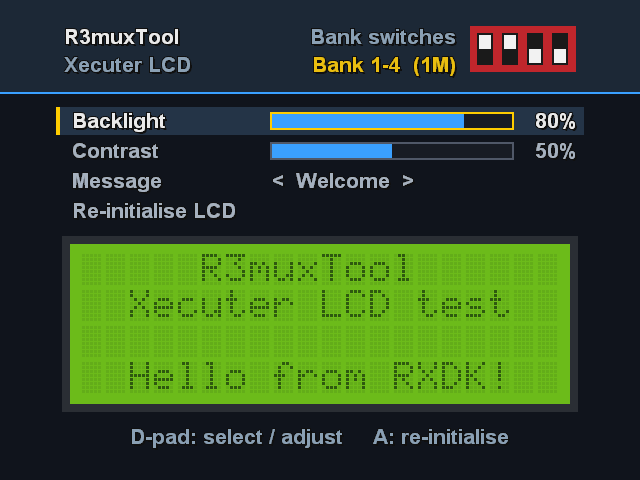
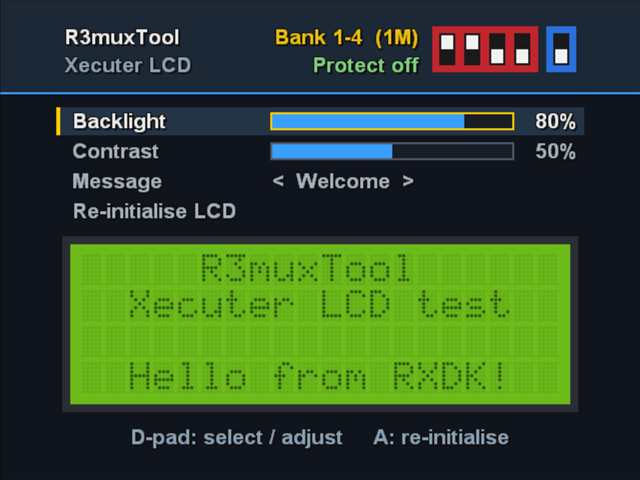
Show the write-protect switch beside the bank switches
Detected the way PrometheOS does it: with protect ON the X3 ignores flash
commands, so the read-only chip-ID query does not answer. Shown as '?' while
the TSOP or backup flash is mapped. README screenshot refreshed.

diff --git a/R3muxTool.cpp b/R3muxTool.cpp
@@ -72,6 +72,7 @@ private:
     void FillRect( float x, float y, float w, float h, D3DCOLOR color );
     void DrawBar( float x, float y, int value, bool selected, bool enabled );
     void DrawBankSwitches();
+    void DrawSwitch( float x, float y, bool known, bool on );
 
     CXBFont m_Font;
 
@@ -85,6 +86,9 @@ private:
     bool  m_SwitchesValid;     // false while software banking is active
     BYTE  m_Switches;
     float m_SwitchPollTime;
+    bool  m_ProtectValid;      // false when TSOP / backup flash is mapped
+    bool  m_ProtectOn;
+    float m_ProtectPollTime;
 
     WCHAR m_Status[96];
     float m_StatusTime;
@@ -107,7 +111,10 @@ CR3muxTool::CR3muxTool()
       m_X3Present( false ),
       m_SwitchesValid( false ),
       m_Switches( 0 ),
-      m_SwitchPollTime( -1.0f )
+      m_SwitchPollTime( -1.0f ),
+      m_ProtectValid( false ),
+      m_ProtectOn( false ),
+      m_ProtectPollTime( -1.0f )
 {
     memset( m_LcdShadow, 0, sizeof( m_LcdShadow ) );
     m_Status[0] = 0;
@@ -189,6 +196,13 @@ HRESULT CR3muxTool::FrameMove()
         m_SwitchesValid = m_X3Present && Xecuter::ReadBankSwitches( &m_Switches );
     }
 
+    // The protect check sends the flash a command sequence, so do it less often.
+    if( m_fAppTime - m_ProtectPollTime > 1.0f || m_ProtectPollTime < 0.0f )
+    {
+        m_ProtectPollTime = m_fAppTime;
+        m_ProtectValid = m_X3Present && Xecuter::ReadWriteProtect( &m_ProtectOn );
+    }
+
     XBGAMEPAD_EVENT ev = m_DefaultGamepad.Event;
 
     switch( ev )
@@ -265,28 +279,36 @@ void CR3muxTool::DrawBar( float x, float y, int value, bool selected, bool enabl
         FillRect( x, y, w * value / 100.0f, h, fill );
 }
 
-// A 4-way DIP switch like the X3's bank selector, with the bank it selects.
-// Switch 1 is bit 0 of the value and reads 0 when ON (knob up).
+// One DIP slot; knob up = ON.
+void CR3muxTool::DrawSwitch( float x, float y, bool known, bool on )
+{
+    const float slotW = 16, slotH = 32;
+    FillRect( x, y, slotW, slotH, 0xff1a1a1a );
+    if( !known )
+        return;
+    float knobH = slotH * 0.5f - 2;
+    FillRect( x + 2, on ? y + 2 : y + slotH - 2 - knobH, slotW - 4, knobH, 0xfff2f2f2 );
+}
+
+// A 4-way DIP switch like the X3's bank selector, with the bank it selects,
+// and the write-protect switch beside it in blue.
+// Bank switch 1 is bit 0 of the value and reads 0 when ON (knob up).
 void CR3muxTool::DrawBankSwitches()
 {
-    const float bodyX = 470, bodyY = 26, bodyW = 106, bodyH = 46;
+    const float bodyX = 432, bodyY = 26, bodyW = 106, bodyH = 46;
     const float slotW = 16, slotH = 32, gap = 9;
     const float slotX0 = bodyX + ( bodyW - ( 4 * slotW + 3 * gap ) ) * 0.5f;
     const float slotY = bodyY + ( bodyH - slotH ) * 0.5f;
 
     bool live = m_SwitchesValid;
     FillRect( bodyX, bodyY, bodyW, bodyH, live ? 0xffc0262c : 0xff4a3436 );   // red DIP body
-
     for( int i = 0; i < 4; ++i )
-    {
-        float x = slotX0 + i * ( slotW + gap );
-        FillRect( x, slotY, slotW, slotH, 0xff1a1a1a );
-        if( !live )
-            continue;
-        bool on = ( m_Switches & ( 1 << i ) ) == 0;
-        float knobH = slotH * 0.5f - 2;
-        FillRect( x + 2, on ? slotY + 2 : slotY + slotH - 2 - knobH, slotW - 4, knobH, 0xfff2f2f2 );
-    }
+        DrawSwitch( slotX0 + i * ( slotW + gap ), slotY, live, ( m_Switches & ( 1 << i ) ) == 0 );
+
+    // Protect switch
+    const float protX = bodyX + bodyW + 8, protW = 576 - protX;
+    FillRect( protX, bodyY, protW, bodyH, m_ProtectValid ? 0xff2a6fdb : 0xff34404a );   // blue body
+    DrawSwitch( protX + ( protW - slotW ) * 0.5f, slotY, m_ProtectValid, m_ProtectOn );
 
     WCHAR buf[64];
     if( !m_X3Present )
@@ -303,9 +325,12 @@ void CR3muxTool::DrawBankSwitches()
         buf[n] = 0;
     }
 
+    const WCHAR* protText = !m_ProtectValid ? L"Protect ?" : ( m_ProtectOn ? L"Protect ON" : L"Protect off" );
+    D3DCOLOR protColor = !m_ProtectValid ? 0xff8fa8c0 : ( m_ProtectOn ? 0xffff7a5a : 0xff7fe07f );
+
     m_Font.Begin();
-    m_Font.DrawText( bodyX - 14, 24, 0xff8fa8c0, L"Bank switches", XBFONT_RIGHT );
-    m_Font.DrawText( bodyX - 14, 52, live ? 0xffffcc00 : 0xff8fa8c0, buf, XBFONT_RIGHT );
+    m_Font.DrawText( bodyX - 14, 24, live ? 0xffffcc00 : 0xff8fa8c0, buf, XBFONT_RIGHT );
+    m_Font.DrawText( bodyX - 14, 52, protColor, protText, XBFONT_RIGHT );
     m_Font.End();
 }
 

diff --git a/XecuterLcd.cpp b/XecuterLcd.cpp
@@ -152,6 +152,31 @@ bool Xecuter::ReadBankSwitches( BYTE* value )
     return true;
 }
 
+bool Xecuter::ReadWriteProtect( bool* protectOn )
+{
+    // Under software banking CONTROL reads back the flash routing; if the TSOP
+    // (0x20) or backup flash (0x80) is selected, the ID read would not reach
+    // the X3's main flash.
+    if( InByte( REG_STATUS ) & STATUS_SOFTCONTROL )
+    {
+        if( InByte( REG_CONTROL ) & ( 0x20 | 0x80 ) )
+            return false;
+    }
+
+    // AMD-style autoselect: unlock, 0x90, read manufacturer / device ID, reset.
+    // Read-only: nothing is erased or written. Ported from PrometheOS
+    // modchipXecuter::checkWriteProtect().
+    volatile BYTE* flash = (volatile BYTE*)0xFF000000;
+    flash[0x5555] = 0xAA;
+    flash[0x2AAA] = 0x55;
+    flash[0x5555] = 0x90;
+    BYTE devId = flash[1];
+    flash[0] = 0xF0;
+
+    *protectOn = ( devId != 0xAD && devId != 0x92 );
+    return true;
+}
+
 const char* Xecuter::BankName( BYTE value )
 {
     static const char* const names[16] =

diff --git a/XecuterLcd.h b/XecuterLcd.h
@@ -58,6 +58,12 @@ namespace Xecuter
     // then reads back the soft bank state rather than the switches.
     bool ReadBankSwitches( BYTE* value );
 
+    // Write-protect switch. There is no register for it: with protect ON the
+    // X3 ignores flash commands, so the chip-ID read (as PrometheOS does it)
+    // does not answer. Returns false when it can't tell, i.e. the TSOP or
+    // backup flash is mapped instead of the X3's main flash.
+    bool ReadWriteProtect( bool* protectOn );
+
     // Name of the bank a switch value selects, e.g. "Bank 1-4", and its size.
     const char* BankName( BYTE value );
     const char* BankSize( BYTE value );

diff --git a/README.md b/README.md
@@ -39,6 +39,10 @@ is ported from [PrometheOS](https://github.com/Team-Resurgent/PrometheOS-Firmwar
   size they select (e.g. *Bank 1-4 (1M)*), updated live as you flip them. It shows
   *Software banking* when a BIOS has taken over banking, and *No X3 detected* when no
   chip answers.
+- **Write protect**: the protect switch, drawn in blue beside the bank switches. There is
+  no register for it, so it is detected the way PrometheOS does it: with protect ON, the
+  flash ignores the read-only chip-ID command. It shows *Protect ?* while the TSOP or
+  backup flash is mapped.
 - **Re-initialise LCD**: runs the HD44780 init sequence again, e.g. after hot-plugging
   the display.
 
